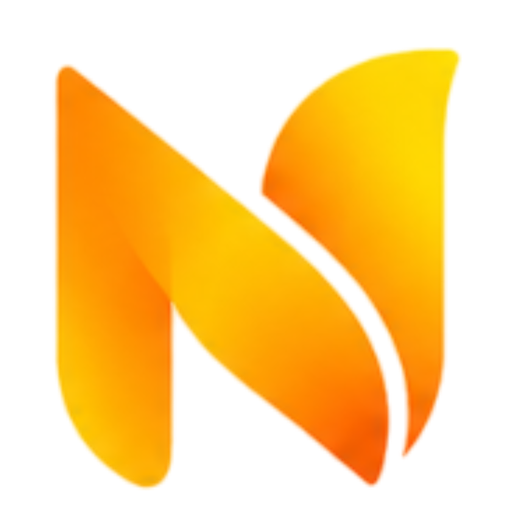
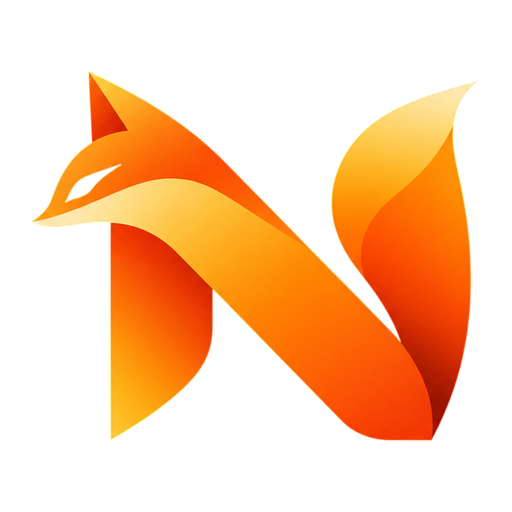
Add files via upload

diff --git a/public/nivread.js b/public/nivread.js
@@ -1824,8 +1824,7 @@ html.nv-menu-open .sk-b::after,html.nv-menu-open .rp-bar,html.nv-menu-open .rp-g
 <div class="niv-topbar sticky top-0 z-30 border-b border-slate-200 dark:border-white/10 bg-white/80 dark:bg-[#0d0d0d]/80 backdrop-blur-md">
   <div class="max-w-5xl mx-auto px-4 sm:px-6 h-14 flex items-center gap-3">
     <a href="/" class="flex items-center gap-2 mr-auto sm:mr-0" aria-label="nivread">
-      <img src="/img/icon-96.png" alt="" width="32" height="32" class="w-8 h-8 rounded-lg object-contain">
-      <span class="nv-brand text-xl text-transparent bg-clip-text bg-gradient-to-r from-amber-500 via-orange-400 to-red-500">nivread</span>
+      <img src="/img/logo-on-light.png?v=20261120" alt="nivread" width="114" height="30" class="block dark:hidden h-[30px] w-auto select-none" draggable="false"><img src="/img/logo-on-dark.png?v=20261120" alt="nivread" width="114" height="30" class="hidden dark:block h-[30px] w-auto select-none" draggable="false">
     </a>
     <div class="hidden sm:block flex-1 max-w-md mx-auto">${searchBox('niv-q')}</div>
     <nav class="flex items-center gap-1.5" aria-label="เมนูด่วน">
@@ -1857,7 +1856,7 @@ html.nv-menu-open .sk-b::after,html.nv-menu-open .rp-bar,html.nv-menu-open .rp-g
   <div id="niv-backdrop"></div>
   <aside class="shadow-2xl border-l border-slate-200 dark:border-white/10 text-slate-800 dark:text-white" role="dialog" aria-label="เมนู">
     <div class="flex items-center justify-between px-5 h-14 border-b border-slate-200 dark:border-white/10 flex-none">
-      <span class="flex items-center gap-2"><img src="/img/icon-96.png" alt="" width="32" height="32" class="w-8 h-8 rounded-lg object-contain"><span class="nv-brand text-xl text-transparent bg-clip-text bg-gradient-to-r from-amber-500 via-orange-400 to-red-500">nivread</span></span>
+      <span class="flex items-center gap-2"><img src="/img/logo-on-light.png?v=20261120" alt="nivread" width="114" height="30" class="block dark:hidden h-[30px] w-auto select-none" draggable="false"><img src="/img/logo-on-dark.png?v=20261120" alt="nivread" width="114" height="30" class="hidden dark:block h-[30px] w-auto select-none" draggable="false"></span>
       <button id="niv-close" type="button" class="w-9 h-9 grid place-items-center rounded-xl hover:bg-slate-200/70 dark:hover:bg-white/10 cursor-pointer" aria-label="ปิดเมนู">${svg('close', 'w-5 h-5')}</button>
     </div>
     <div class="nv-scroll">

diff --git a/public/public/nivread.js b/public/public/nivread.js
@@ -1804,8 +1804,7 @@ html.nv-menu-open .sk-b::after,html.nv-menu-open .rp-bar,html.nv-menu-open .rp-g
 <div class="sticky top-0 z-30 border-b border-slate-200 dark:border-white/10 bg-white/80 dark:bg-[#0d0d0d]/80 backdrop-blur-md">
   <div class="max-w-5xl mx-auto px-4 sm:px-6 h-14 flex items-center gap-3">
     <a href="/" class="flex items-center gap-2 mr-auto sm:mr-0" aria-label="nivread">
-      <img src="/img/icon-96.png" alt="" width="32" height="32" class="w-8 h-8 rounded-lg object-contain">
-      <span class="nv-brand text-xl text-transparent bg-clip-text bg-gradient-to-r from-amber-500 via-orange-400 to-red-500">nivread</span>
+      <img src="/img/logo-on-light.png?v=20261120" alt="nivread" width="114" height="30" class="block dark:hidden h-[30px] w-auto select-none" draggable="false"><img src="/img/logo-on-dark.png?v=20261120" alt="nivread" width="114" height="30" class="hidden dark:block h-[30px] w-auto select-none" draggable="false">
     </a>
     <div class="hidden sm:block flex-1 max-w-md mx-auto">${searchBox('niv-q')}</div>
     <nav class="flex items-center gap-1.5" aria-label="เมนูด่วน">
@@ -1835,7 +1834,7 @@ html.nv-menu-open .sk-b::after,html.nv-menu-open .rp-bar,html.nv-menu-open .rp-g
   <div id="niv-backdrop"></div>
   <aside class="shadow-2xl border-l border-slate-200 dark:border-white/10 text-slate-800 dark:text-white" role="dialog" aria-label="เมนู">
     <div class="flex items-center justify-between px-5 h-14 border-b border-slate-200 dark:border-white/10 flex-none">
-      <span class="flex items-center gap-2"><img src="/img/icon-96.png" alt="" width="32" height="32" class="w-8 h-8 rounded-lg object-contain"><span class="nv-brand text-xl text-transparent bg-clip-text bg-gradient-to-r from-amber-500 via-orange-400 to-red-500">nivread</span></span>
+      <span class="flex items-center gap-2"><img src="/img/logo-on-light.png?v=20261120" alt="nivread" width="114" height="30" class="block dark:hidden h-[30px] w-auto select-none" draggable="false"><img src="/img/logo-on-dark.png?v=20261120" alt="nivread" width="114" height="30" class="hidden dark:block h-[30px] w-auto select-none" draggable="false"></span>
       <button id="niv-close" type="button" class="w-9 h-9 grid place-items-center rounded-xl hover:bg-slate-200/70 dark:hover:bg-white/10 cursor-pointer" aria-label="ปิดเมนู">${svg('close', 'w-5 h-5')}</button>
     </div>
     <div class="nv-scroll">

diff --git a/public/ai.html b/public/ai.html
@@ -16,10 +16,10 @@
 <meta property="og:locale" content="th_TH">
 <meta name="twitter:card" content="summary">
 <script type="application/ld+json">{"@context": "https://schema.org", "@type": "WebApplication", "name": "Nivread AI แชททั่วไป", "url": "https://nivread.com/ai", "description": "แชทกับ Nivread AI ผู้ช่วย AI ภาษาไทย ถามตอบได้ทุกเรื่อง อธิบายเรื่องยาก ช่วยเขียน แปลภาษา วางแผน พร้อมค้นข้อมูลล่าสุดให้ก่อนตอบ", "inLanguage": "th", "applicationCategory": "UtilitiesApplication", "operatingSystem": "Web", "isPartOf": {"@type": "WebSite", "name": "Nivread", "url": "https://nivread.com"}}</script>
-<link rel="icon" href="/favicon.ico" sizes="any">
-<link rel="icon" href="/img/icon-48.png" type="image/png" sizes="48x48">
-<link rel="icon" href="/img/icon-192.png" type="image/png" sizes="192x192">
-<link rel="apple-touch-icon" href="/img/apple-touch-icon.png">
+<link rel="icon" href="/favicon.ico?v=20261120" sizes="any">
+<link rel="icon" href="/img/icon-48.png?v=20261120" type="image/png" sizes="48x48">
+<link rel="icon" href="/img/icon-192.png?v=20261120" type="image/png" sizes="192x192">
+<link rel="apple-touch-icon" href="/img/apple-touch-icon.png?v=20261120">
 <link rel="manifest" href="/manifest.webmanifest">
 <meta name="theme-color" content="#161616">
 <script>
@@ -336,7 +336,7 @@
 <script src="https://cdnjs.cloudflare.com/ajax/libs/marked/12.0.2/marked.min.js"></script>
 <script src="https://cdnjs.cloudflare.com/ajax/libs/dompurify/3.1.6/purify.min.js"></script>
 <script src="https://cdn.jsdelivr.net/npm/chart.js@4.4.7/dist/chart.umd.min.js"></script>
-<script src="/nivread.js?v=20261119c"></script>
+<script src="/nivread.js?v=20261120"></script>
 <script>
 (() => {
   const s = NIV.session() || {};

diff --git a/functions/_lib/render.js b/functions/_lib/render.js
@@ -288,7 +288,7 @@ export { postBar, postHead };
 
 export function shell({ origin, apiBase, path, title, desc, image, jsonld = [], body, robots = 'index, follow, max-image-preview:large', type = 'website', head = '' }) {
   const canonical = origin + path;
-  const img = image || `${origin}/og-image.jpg`;
+  const img = image || `${origin}/og-image.jpg?v=20261120`;
   const ld = jsonld.map((j) => `<script type="application/ld+json">${JSON.stringify(j).replace(/</g, '\\u003c')}</script>`).join('\n');
   return `<!DOCTYPE html>
 <html lang="th" class="dark">
@@ -301,10 +301,10 @@ export function shell({ origin, apiBase, path, title, desc, image, jsonld = [], 
 <meta name="robots" content="${robots}">
 <meta name="author" content="nivread">
 <link rel="canonical" href="${esc(canonical)}">
-<link rel="icon" href="/favicon.ico" sizes="any">
-<link rel="icon" href="/img/icon-48.png" type="image/png" sizes="48x48">
-<link rel="icon" href="/img/icon-192.png" type="image/png" sizes="192x192">
-<link rel="apple-touch-icon" href="/img/apple-touch-icon.png">
+<link rel="icon" href="/favicon.ico?v=20261120" sizes="any">
+<link rel="icon" href="/img/icon-48.png?v=20261120" type="image/png" sizes="48x48">
+<link rel="icon" href="/img/icon-192.png?v=20261120" type="image/png" sizes="192x192">
+<link rel="apple-touch-icon" href="/img/apple-touch-icon.png?v=20261120">
 <link rel="manifest" href="/manifest.webmanifest">
 <meta name="theme-color" content="#0d0d0d">
 <meta name="api-base" content="${esc(apiBase)}">
@@ -340,7 +340,7 @@ ${ld}
 </div>
 <header id="main-header" class="z-20"></header>
 ${body}
-<script src="/nivread.js?v=20261119l"></script>
+<script src="/nivread.js?v=20261120"></script>
 <script src="/posts-feed.js" defer></script>
 </body>
 </html>`;

diff --git a/public/terms.html b/public/terms.html
@@ -7,10 +7,10 @@
 <title>ข้อตกลงและเงื่อนไขการให้บริการ | nivread</title>
 <meta name="description" content="ข้อตกลงและเงื่อนไขการให้บริการของ nivread.com ครอบคลุมความรับผิดของแพลตฟอร์ม ข้อห้ามในการใช้งาน การนำเนื้อหาออก และการเก็บข้อมูลจราจรทางคอมพิวเตอร์">
 <link rel="canonical" href="https://nivread.com/terms">
-<link rel="icon" href="/favicon.ico" sizes="any">
-<link rel="icon" href="/img/icon-48.png" type="image/png" sizes="48x48">
-<link rel="icon" href="/img/icon-192.png" type="image/png" sizes="192x192">
-<link rel="apple-touch-icon" href="/img/apple-touch-icon.png">
+<link rel="icon" href="/favicon.ico?v=20261120" sizes="any">
+<link rel="icon" href="/img/icon-48.png?v=20261120" type="image/png" sizes="48x48">
+<link rel="icon" href="/img/icon-192.png?v=20261120" type="image/png" sizes="192x192">
+<link rel="apple-touch-icon" href="/img/apple-touch-icon.png?v=20261120">
 <link rel="manifest" href="/manifest.webmanifest">
 <meta name="theme-color" content="#0d0d0d">
 <script>
@@ -129,7 +129,7 @@
 </main>
 
 <div id="main-footer" class="z-10"></div>
-<script src="/nivread.js?v=20261119c"></script>
+<script src="/nivread.js?v=20261120"></script>
 <script>
   // แถบความคืบหน้าการอ่าน
   const bar = document.getElementById('bar');

diff --git a/public/write.html b/public/write.html
@@ -6,10 +6,10 @@
 <meta name="viewport" content="width=device-width, initial-scale=1.0, maximum-scale=1.0, user-scalable=no, viewport-fit=cover">
 <title>เขียนโพสต์ | nivread</title>
 <meta name="robots" content="noindex, nofollow">
-<link rel="icon" href="/favicon.ico" sizes="any">
-<link rel="icon" href="/img/icon-48.png" type="image/png" sizes="48x48">
-<link rel="icon" href="/img/icon-192.png" type="image/png" sizes="192x192">
-<link rel="apple-touch-icon" href="/img/apple-touch-icon.png">
+<link rel="icon" href="/favicon.ico?v=20261120" sizes="any">
+<link rel="icon" href="/img/icon-48.png?v=20261120" type="image/png" sizes="48x48">
+<link rel="icon" href="/img/icon-192.png?v=20261120" type="image/png" sizes="192x192">
+<link rel="apple-touch-icon" href="/img/apple-touch-icon.png?v=20261120">
 <link rel="manifest" href="/manifest.webmanifest">
 <meta name="theme-color" content="#0d0d0d">
 <script>
@@ -286,7 +286,7 @@ textarea.wr-f{resize:none;line-height:1.6}
   <p class="wr-hint" style="font-size:11px">เสียงที่เจ้าของไม่ได้เปิดให้ใช้จะไม่แสดงในรายการ · พบเสียงละเมิดกดรายงานได้ที่หน้าเสียง</p>
 </div>
 <div id="wr-bd" class="wr-bd"></div>
-<script src="/nivread.js?v=20261119c"></script>
+<script src="/nivread.js?v=20261120"></script>
 <script>
   const { session, api, el } = NIV;
   const s = session();

diff --git a/public/public/user.html b/public/public/user.html
@@ -10,10 +10,10 @@
 <meta name="viewport" content="width=device-width, initial-scale=1.0, maximum-scale=1.0, user-scalable=no, viewport-fit=cover">
 <title>โปรไฟล์ผู้ใช้ | nivread</title>
 <meta name="robots" content="noindex, follow">
-<link rel="icon" href="/favicon.ico" sizes="any">
-<link rel="icon" href="/img/icon-48.png" type="image/png" sizes="48x48">
-<link rel="icon" href="/img/icon-192.png" type="image/png" sizes="192x192">
-<link rel="apple-touch-icon" href="/img/apple-touch-icon.png">
+<link rel="icon" href="/favicon.ico?v=20261120" sizes="any">
+<link rel="icon" href="/img/icon-48.png?v=20261120" type="image/png" sizes="48x48">
+<link rel="icon" href="/img/icon-192.png?v=20261120" type="image/png" sizes="192x192">
+<link rel="apple-touch-icon" href="/img/apple-touch-icon.png?v=20261120">
 <link rel="manifest" href="/manifest.webmanifest">
 <meta name="theme-color" content="#0d0d0d">
 <script>
@@ -70,7 +70,7 @@
     <div id="rp-more" class="hidden mt-6 text-center"><button id="rp-more-btn" type="button" class="px-5 py-2.5 rounded-xl border border-slate-300 dark:border-white/15 text-sm font-semibold hover:bg-slate-100 dark:hover:bg-white/10 cursor-pointer">โหลดเพิ่ม</button></div></section>
 </main>
 <div id="main-footer" class="z-10"></div>
-<script src="/nivread.js?v=20261119f"></script>
+<script src="/nivread.js?v=20261120"></script>
 <script>
 (async () => {
   const { api, el, session, avatarEl, postCardEl } = NIV;

diff --git a/public/user.html b/public/user.html
@@ -10,10 +10,10 @@
 <meta name="viewport" content="width=device-width, initial-scale=1.0, maximum-scale=1.0, user-scalable=no, viewport-fit=cover">
 <title>โปรไฟล์ผู้ใช้ | nivread</title>
 <meta name="robots" content="noindex, follow">
-<link rel="icon" href="/favicon.ico" sizes="any">
-<link rel="icon" href="/img/icon-48.png" type="image/png" sizes="48x48">
-<link rel="icon" href="/img/icon-192.png" type="image/png" sizes="192x192">
-<link rel="apple-touch-icon" href="/img/apple-touch-icon.png">
+<link rel="icon" href="/favicon.ico?v=20261120" sizes="any">
+<link rel="icon" href="/img/icon-48.png?v=20261120" type="image/png" sizes="48x48">
+<link rel="icon" href="/img/icon-192.png?v=20261120" type="image/png" sizes="192x192">
+<link rel="apple-touch-icon" href="/img/apple-touch-icon.png?v=20261120">
 <link rel="manifest" href="/manifest.webmanifest">
 <meta name="theme-color" content="#0d0d0d">
 <script>
@@ -70,7 +70,7 @@
     <div id="rp-more" class="hidden mt-6 text-center"><button id="rp-more-btn" type="button" class="px-5 py-2.5 rounded-xl border border-slate-300 dark:border-white/15 text-sm font-semibold hover:bg-slate-100 dark:hover:bg-white/10 cursor-pointer">โหลดเพิ่ม</button></div></section>
 </main>
 <div id="main-footer" class="z-10"></div>
-<script src="/nivread.js?v=20261119l"></script>
+<script src="/nivread.js?v=20261120"></script>
 <script>
 (async () => {
   const { api, el, session, avatarEl, postCardEl } = NIV;

diff --git a/public/profile.html b/public/profile.html
@@ -6,10 +6,10 @@
 <meta name="viewport" content="width=device-width, initial-scale=1.0, maximum-scale=1.0, user-scalable=no, viewport-fit=cover">
 <title>โปรไฟล์ | nivread</title>
 <meta name="robots" content="noindex, nofollow">
-<link rel="icon" href="/favicon.ico" sizes="any">
-<link rel="icon" href="/img/icon-48.png" type="image/png" sizes="48x48">
-<link rel="icon" href="/img/icon-192.png" type="image/png" sizes="192x192">
-<link rel="apple-touch-icon" href="/img/apple-touch-icon.png">
+<link rel="icon" href="/favicon.ico?v=20261120" sizes="any">
+<link rel="icon" href="/img/icon-48.png?v=20261120" type="image/png" sizes="48x48">
+<link rel="icon" href="/img/icon-192.png?v=20261120" type="image/png" sizes="192x192">
+<link rel="apple-touch-icon" href="/img/apple-touch-icon.png?v=20261120">
 <link rel="manifest" href="/manifest.webmanifest">
 <meta name="theme-color" content="#0d0d0d">
 <script src="https://accounts.google.com/gsi/client" async defer></script>
@@ -145,7 +145,7 @@
 </div>
 
 <div id="main-footer" class="z-10"></div>
-<script src="/nivread.js?v=20261119l"></script>
+<script src="/nivread.js?v=20261120"></script>
 <script>
   // ตัวเลือกภาษา (ย้ายมาจากเมนูแฮมเบอร์เกอร์)
   (() => { const slot = document.getElementById('niv-lang-slot'); if (slot && !slot.firstChild) window.NIV_I18N?.mountSwitcher(slot); })();

diff --git a/public/public/profile.html b/public/public/profile.html
@@ -6,10 +6,10 @@
 <meta name="viewport" content="width=device-width, initial-scale=1.0, maximum-scale=1.0, user-scalable=no, viewport-fit=cover">
 <title>โปรไฟล์ | nivread</title>
 <meta name="robots" content="noindex, nofollow">
-<link rel="icon" href="/favicon.ico" sizes="any">
-<link rel="icon" href="/img/icon-48.png" type="image/png" sizes="48x48">
-<link rel="icon" href="/img/icon-192.png" type="image/png" sizes="192x192">
-<link rel="apple-touch-icon" href="/img/apple-touch-icon.png">
+<link rel="icon" href="/favicon.ico?v=20261120" sizes="any">
+<link rel="icon" href="/img/icon-48.png?v=20261120" type="image/png" sizes="48x48">
+<link rel="icon" href="/img/icon-192.png?v=20261120" type="image/png" sizes="192x192">
+<link rel="apple-touch-icon" href="/img/apple-touch-icon.png?v=20261120">
 <link rel="manifest" href="/manifest.webmanifest">
 <meta name="theme-color" content="#0d0d0d">
 <script src="https://accounts.google.com/gsi/client" async defer></script>
@@ -145,7 +145,7 @@
 </div>
 
 <div id="main-footer" class="z-10"></div>
-<script src="/nivread.js?v=20261119f"></script>
+<script src="/nivread.js?v=20261120"></script>
 <script>
   // ตัวเลือกภาษา (ย้ายมาจากเมนูแฮมเบอร์เกอร์)
   (() => { const slot = document.getElementById('niv-lang-slot'); if (slot && !slot.firstChild) window.NIV_I18N?.mountSwitcher(slot); })();

diff --git a/public/login.html b/public/login.html
@@ -6,10 +6,10 @@
 <meta name="viewport" content="width=device-width, initial-scale=1.0, maximum-scale=1.0, user-scalable=no, viewport-fit=cover">
 <title>เข้าสู่ระบบ | nivread</title>
 <meta name="robots" content="noindex, nofollow">
-<link rel="icon" href="/favicon.ico" sizes="any">
-<link rel="icon" href="/img/icon-48.png" type="image/png" sizes="48x48">
-<link rel="icon" href="/img/icon-192.png" type="image/png" sizes="192x192">
-<link rel="apple-touch-icon" href="/img/apple-touch-icon.png">
+<link rel="icon" href="/favicon.ico?v=20261120" sizes="any">
+<link rel="icon" href="/img/icon-48.png?v=20261120" type="image/png" sizes="48x48">
+<link rel="icon" href="/img/icon-192.png?v=20261120" type="image/png" sizes="192x192">
+<link rel="apple-touch-icon" href="/img/apple-touch-icon.png?v=20261120">
 <link rel="manifest" href="/manifest.webmanifest">
 <meta name="theme-color" content="#0d0d0d">
 <script>
@@ -78,7 +78,7 @@
 </main>
 
 <div id="main-footer" class="z-10"></div>
-<script src="/nivread.js?v=20261119c"></script>
+<script src="/nivread.js?v=20261120"></script>
 <script>
   const API = NIV.API;
   // ใช้ Client ID ชุดเดียวกับ FNNZ — ต้องเพิ่มโดเมน nivread ใน "Authorized JavaScript origins" ที่ Google Cloud Console

diff --git a/public/chat.html b/public/chat.html
@@ -6,10 +6,10 @@
 <meta name="viewport" content="width=device-width, initial-scale=1.0, maximum-scale=1.0, user-scalable=no, viewport-fit=cover">
 <title>แชท | nivread</title>
 <meta name="robots" content="noindex, nofollow">
-<link rel="icon" href="/favicon.ico" sizes="any">
-<link rel="icon" href="/img/icon-48.png" type="image/png" sizes="48x48">
-<link rel="icon" href="/img/icon-192.png" type="image/png" sizes="192x192">
-<link rel="apple-touch-icon" href="/img/apple-touch-icon.png">
+<link rel="icon" href="/favicon.ico?v=20261120" sizes="any">
+<link rel="icon" href="/img/icon-48.png?v=20261120" type="image/png" sizes="48x48">
+<link rel="icon" href="/img/icon-192.png?v=20261120" type="image/png" sizes="192x192">
+<link rel="apple-touch-icon" href="/img/apple-touch-icon.png?v=20261120">
 <link rel="manifest" href="/manifest.webmanifest">
 <meta name="theme-color" content="#0d0d0d">
 <script>
@@ -103,7 +103,7 @@ button,input{font:inherit;color:inherit;border:0;background:none;cursor:pointer}
   </div>
 </main>
 <div id="main-footer" class="z-10" hidden></div>
-<script src="/nivread.js?v=20261119c"></script>
+<script src="/nivread.js?v=20261120"></script>
 <script>
 (() => {
   const s = NIV.session();
